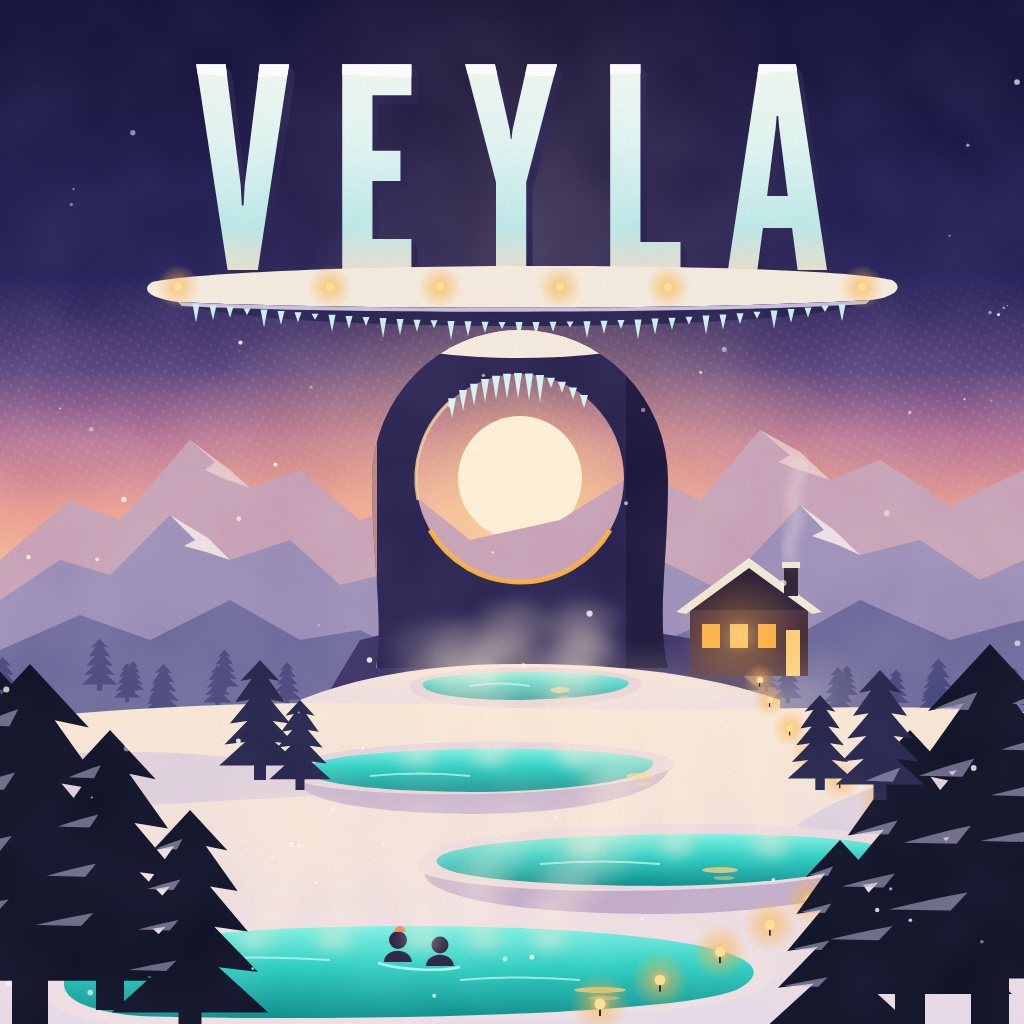
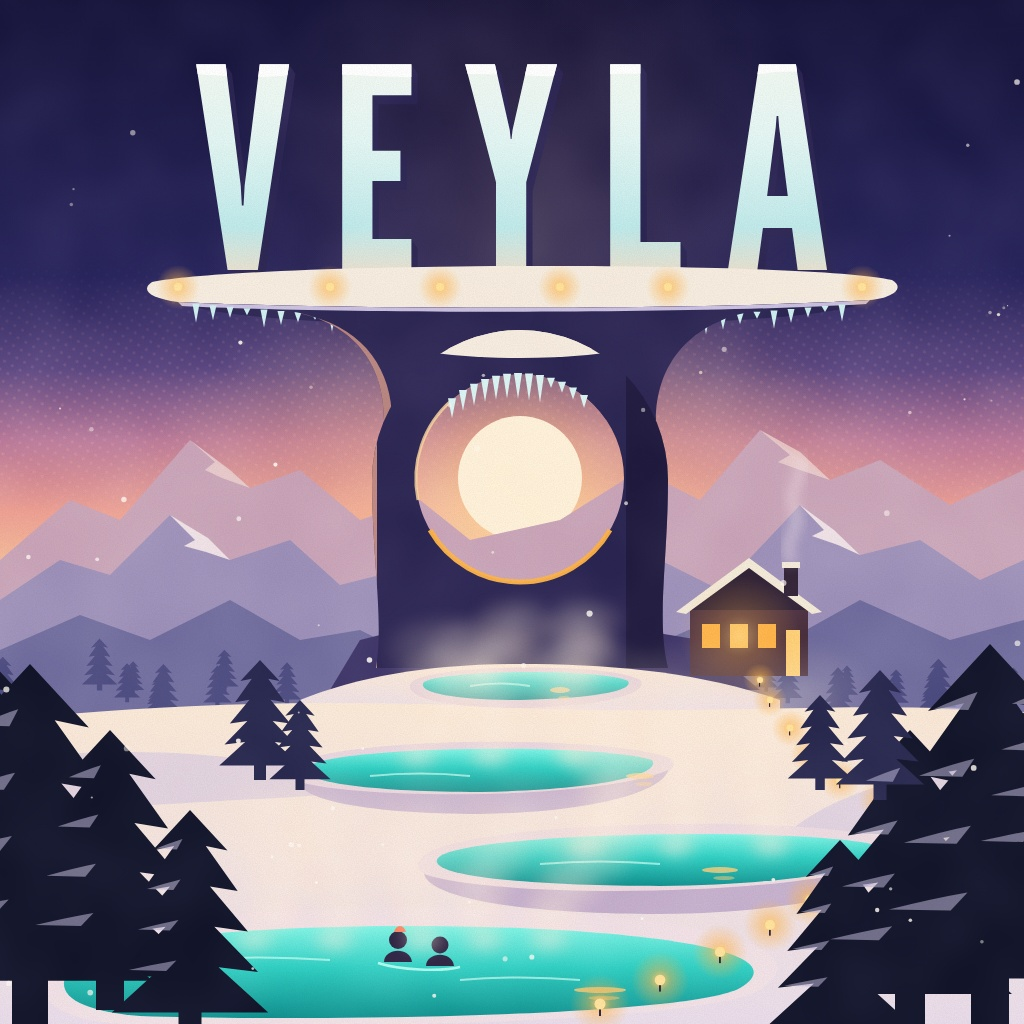
Join the name's snow cornice to the Moon Ring as its crown
The cornice under the ice letters floated in the sky like a disc. Add stone
shoulders that flare up from the ring's top into the cornice's underside, with
the inner edge following the moon window, so the ring carries the name.
Re-render entry.png.

Changed region(s): [[0.3125, 0.3125, 0.6875, 0.4062]]

diff --git a/page/index.html b/page/index.html
@@ -119,6 +119,9 @@
   <!-- ARCH + BATHHOUSE -->
   <path fill="#3b3266" d="M330 690 L360 640 L400 630 L640 630 L700 640 L760 690 Z"/>
   <!-- LANDMARK: the Moon Ring of Veyla, a stone ring framing the rising moon -->
+  <!-- stone shoulders: the ring carries the snow cornice as its crown -->
+  <path fill="#2a2452" d="M296 312 C 360 326, 384 370, 384 420 L 433.7 420 A 104 104 0 0 1 606.3 420 L 656 420 C 656 370, 684 326, 748 312 Z"/>
+  <path fill="#f2a98f" opacity="0.7" d="M296 312 C 360 326, 384 370, 384 420 L 392 420 C 392 372, 366 330, 310 316 Z"/>
   <path fill="#2a2452" fill-rule="evenodd" d="M376 668 C 384 620, 372 560, 372 480 A 148 150 0 0 1 668 480 C 668 560, 656 620, 668 668 Z M416 478 A 104 104 0 1 0 624 478 A 104 104 0 1 0 416 478 Z"/>
   <g clip-path="url(#ringClip)">
     <rect x="626" y="300" width="60" height="380" fill="#17132f" opacity="0.55"/>
